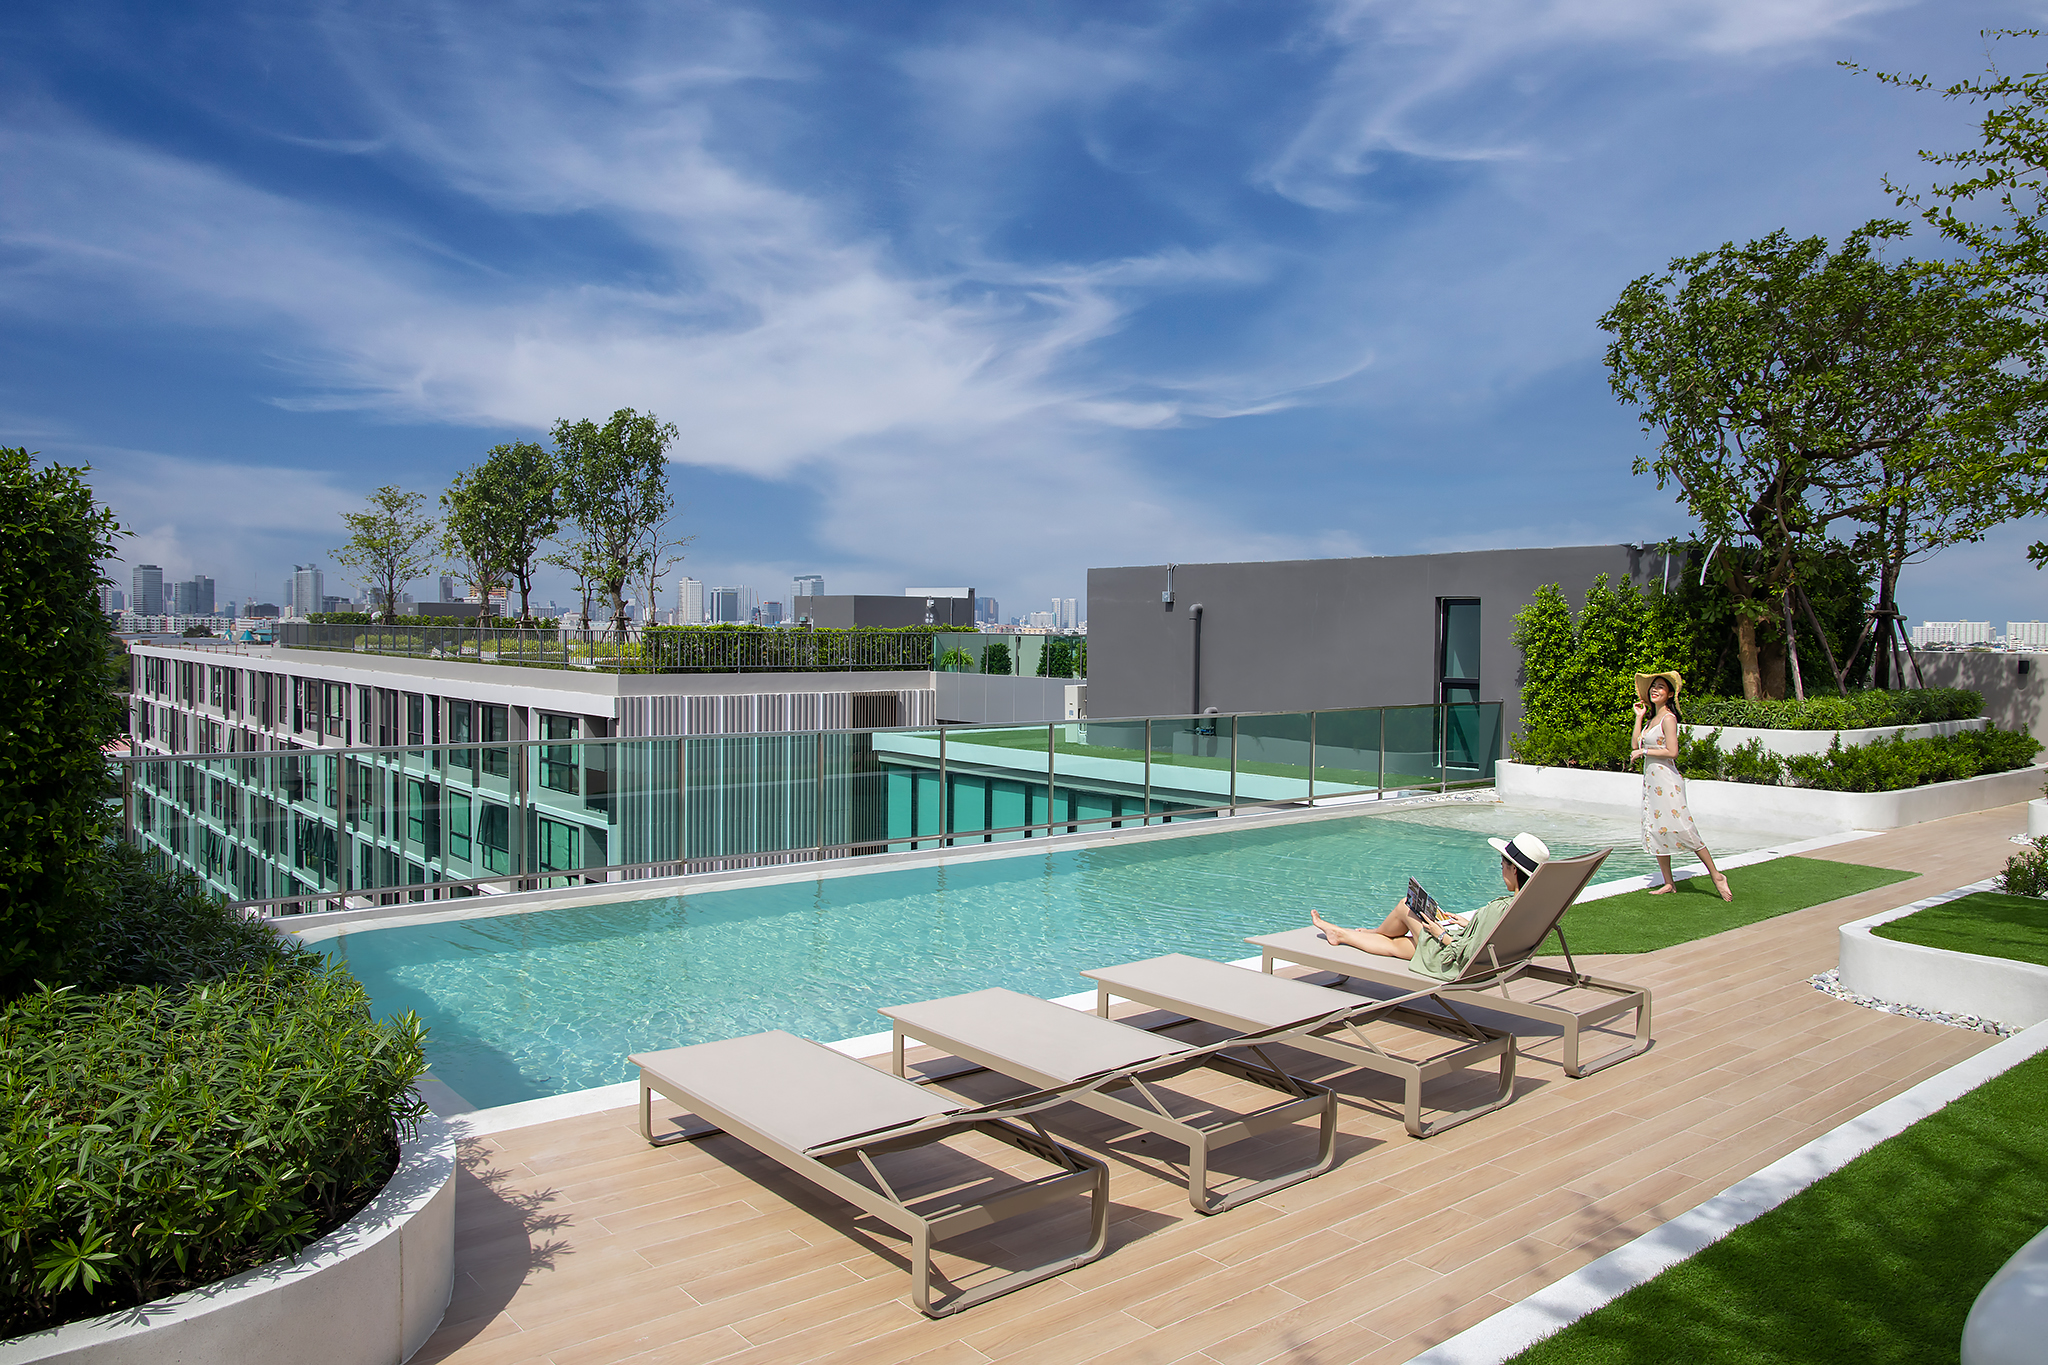
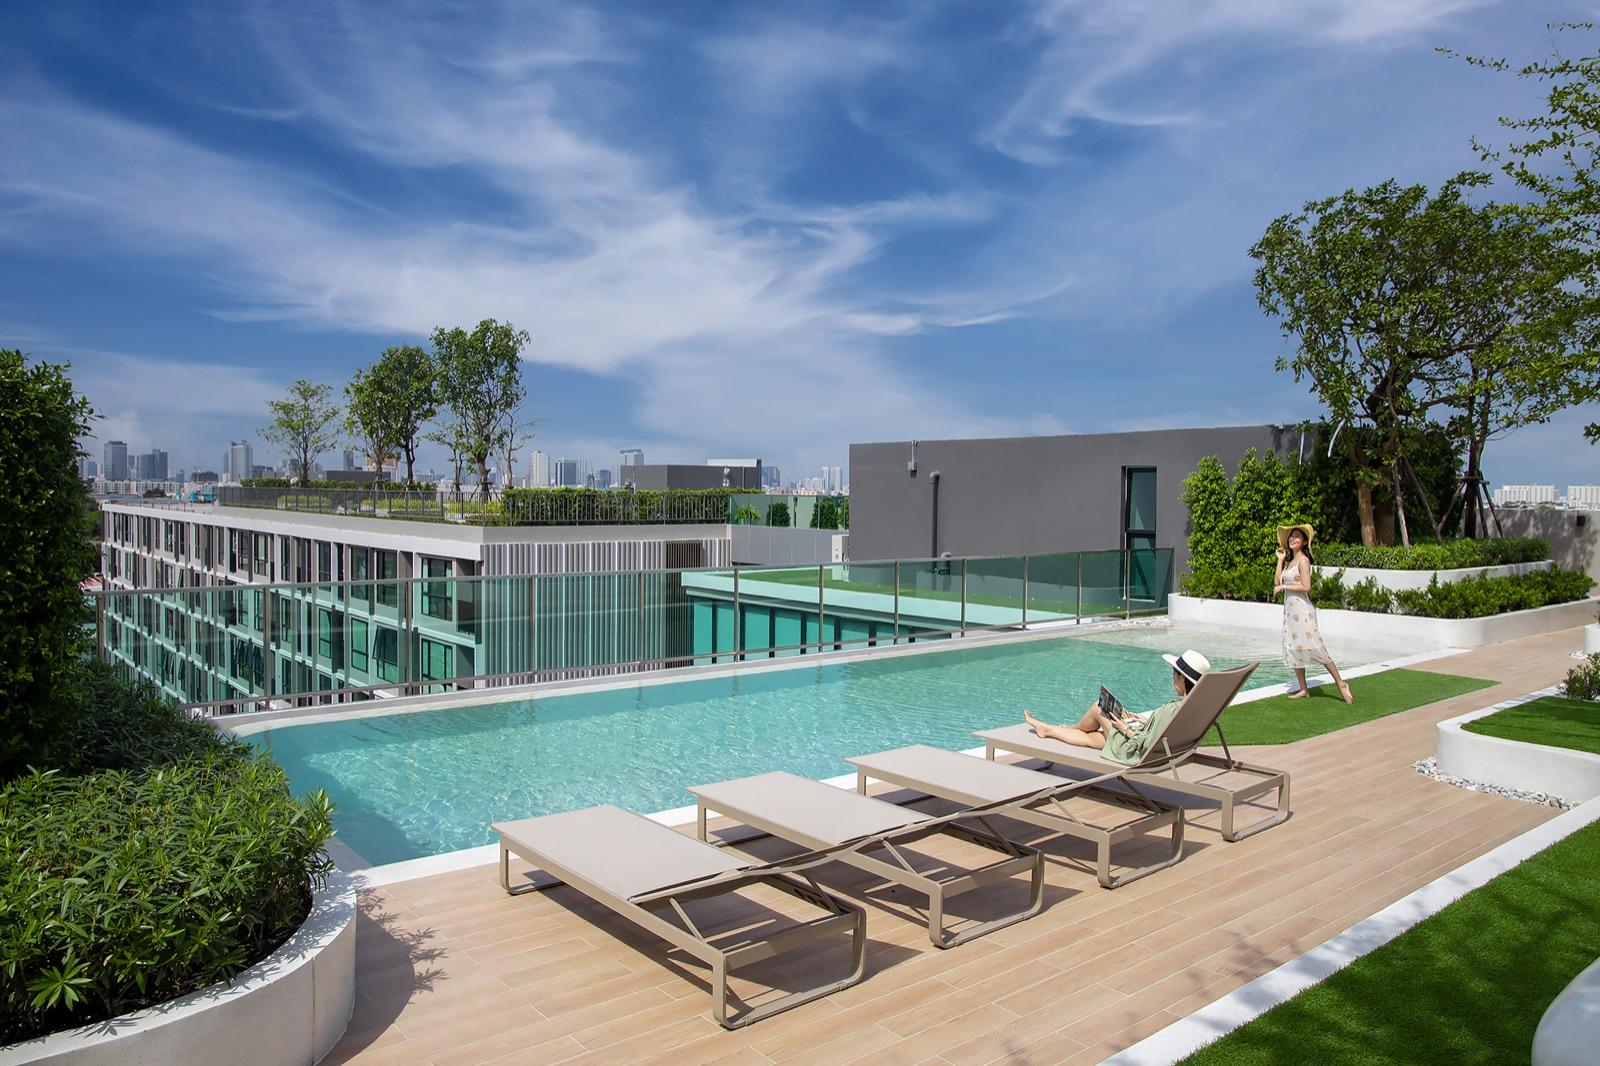
perf(ui): shrink room images + async decode (fix laggy picture modals)
The demo room photos were 2.6–7.5 MB each (room-navy.jpg was 7.3 MB). Decoding
and compositing multi-megabyte JPEGs is what made every picture modal / the
lightbox janky — especially the lightbox rendering them fullscreen. Resized all
to max 1600px / q80 (public/images: 44MB → 3.2MB; ~20× smaller, visually fine).

Also added decoding="async" to the lightbox, room modal, and gallery images so
decode happens off the main thread (keeps the UI responsive, and helps future
uploaded phone photos which we can't resize server-side without adding a dep).

diff --git a/src/components/RoomDetail.jsx b/src/components/RoomDetail.jsx
@@ -74,6 +74,7 @@ export default function RoomDetail() {
                     alt={room.title}
                     className="w-full h-full object-cover transition-transform duration-300 group-hover:scale-[1.03]"
                     loading="lazy"
+                    decoding="async"
                     onError={(e) => { e.currentTarget.src = FALLBACK_IMAGES[0] }}
                   />
                   <span className="absolute bottom-3 right-3 inline-flex items-center gap-1 text-xs font-medium text-white bg-navy-900/55 backdrop-blur px-2.5 py-1 rounded-full opacity-0 group-hover:opacity-100 transition-opacity">
@@ -87,7 +88,7 @@ export default function RoomDetail() {
                     onClick={() => setLightboxIndex(i + 1)}
                     className="hidden sm:block aspect-square bg-cream-100 relative group cursor-zoom-in"
                   >
-                    <img src={src} alt="" className="w-full h-full object-cover opacity-90 group-hover:opacity-100 transition-opacity" loading="lazy" />
+                    <img src={src} alt="" className="w-full h-full object-cover opacity-90 group-hover:opacity-100 transition-opacity" loading="lazy" decoding="async" />
                   </button>
                 ))}
               </div>

diff --git a/src/components/Lightbox.jsx b/src/components/Lightbox.jsx
@@ -80,6 +80,7 @@ export default function Lightbox({ images = [], index, onClose, onIndex }) {
         alt=""
         className="max-w-[92vw] max-h-[86vh] object-contain rounded-xl shadow-2xl"
         onClick={(e) => e.stopPropagation()}
+        decoding="async"
       />
 
       {count > 1 && (

diff --git a/src/components/RoomDetailModal.jsx b/src/components/RoomDetailModal.jsx
@@ -49,6 +49,7 @@ export default function RoomDetailModal({ roomId, onClose }) {
               alt={room.title}
               className="w-full h-full object-cover"
               loading="lazy"
+              decoding="async"
               onError={(e) => { e.currentTarget.src = FALLBACK_IMAGE }}
             />
             {room.badge && (